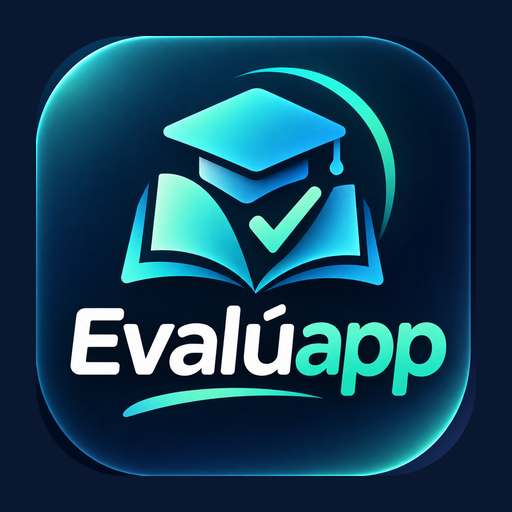
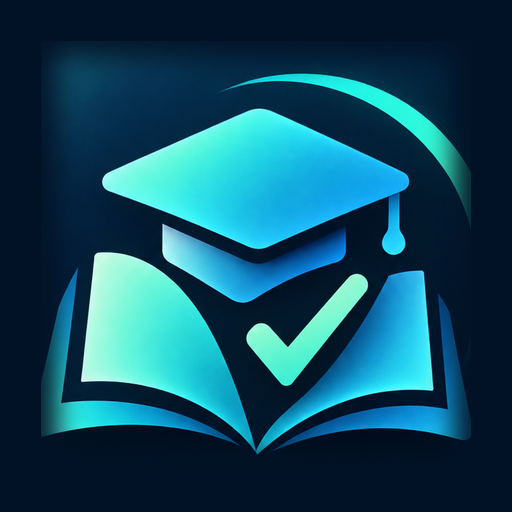
Evalúapp 1.3.2: icono de la app sin letras
Claude-Session: https://claude.ai/code/session_01LUWp7JJdJup4Wk7qypUkNN

diff --git a/app.js b/app.js
@@ -21,7 +21,7 @@ const esc=s=>String(s??'').replace(/[&<>"']/g,c=>({'&':'&amp;','<':'&lt;','>':'&
 const fmtF=f=>{const [y,m,d]=f.split('-');return d+'/'+m+'/'+y.slice(2)};
 
 /* ============ ALMACENAMIENTO (nube privada + copia local) ============ */
-const APP_VERSION='1.3.1';
+const APP_VERSION='1.3.2';
 const LK='evaluapp-datos',LO='evaluapp-cambios',LS='evaluapp-sync';
 let OPS=[];let SYNC={url:'',key:''};
 function persist(){try{localStorage.setItem(LK,JSON.stringify(S));localStorage.setItem(LO,JSON.stringify(OPS))}catch(e){}}

diff --git a/sw.js b/sw.js
@@ -1,5 +1,5 @@
 // Evalúapp · service worker. Al publicar cambios, sube el número de CACHE.
-const CACHE = 'evaluapp-6';
+const CACHE = 'evaluapp-7';
 const SHELL = ['./', 'index.html', 'styles.css', 'curriculo.js', 'app.js', 'manifest.webmanifest', 'icons/logo.png', 'icons/mark.png', 'icons/icon-192.png', 'icons/icon-512.png'];
 
 self.addEventListener('install', e => {
